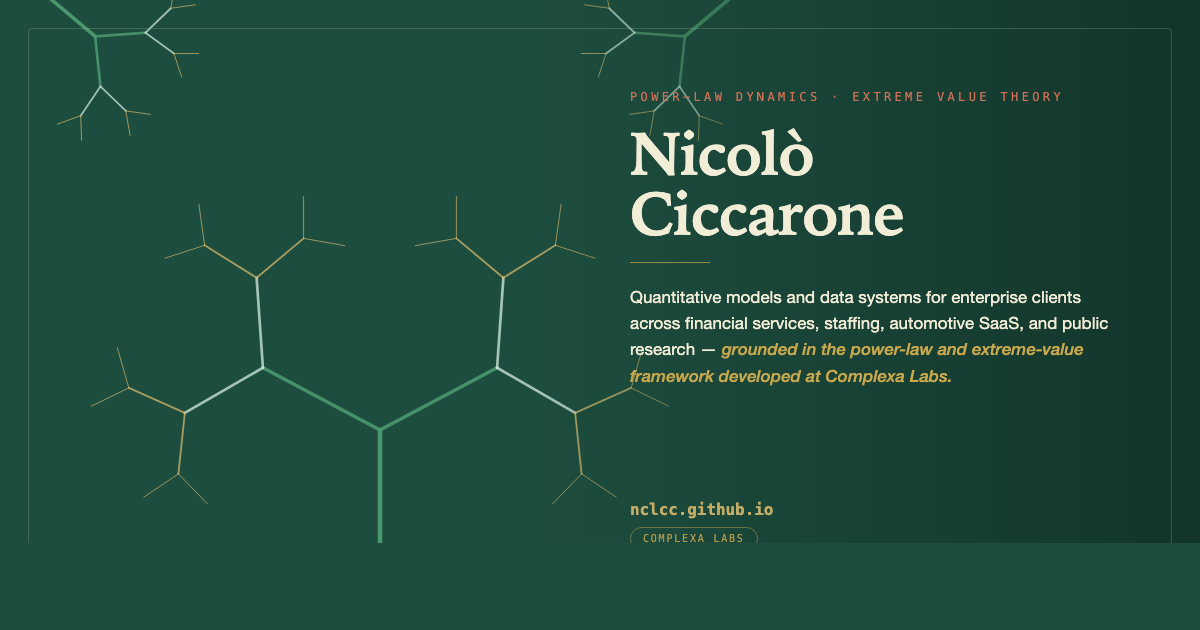
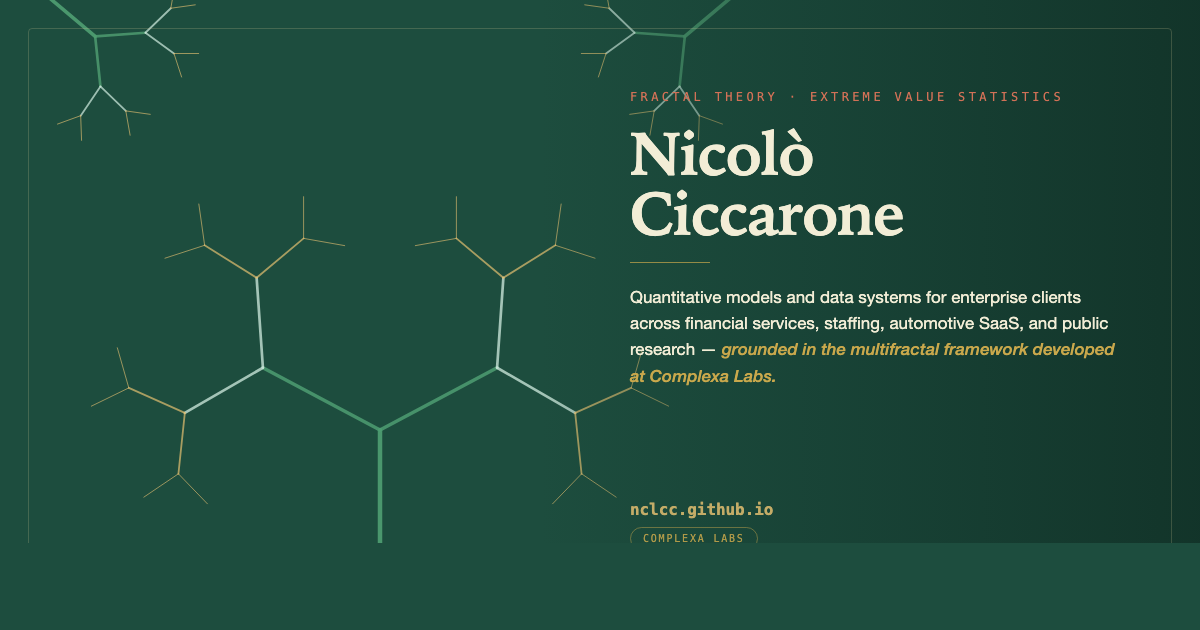
Reposition framing around fractal theory and extreme value statistics

Changed region(s): [[0.5242, 0.5429, 0.925, 0.6032], [0.5858, 0.1508, 0.8942, 0.181], [0.5242, 0.1508, 0.555, 0.181]]

diff --git a/app/page.tsx b/app/page.tsx
@@ -79,9 +79,12 @@ export default function Home() {
         </h1>
         <p className="mt-5 text-lg leading-relaxed" style={{ color: "var(--bk-ink-mid)" }}>
           I build quantitative models and data systems for enterprise clients across financial services,
-          staffing, and public research. My work sits at the intersection of causal inference, statistical
-          modelling, and production data engineering — translating econometric rigour into systems that survive
-          deployment. Most of my recent research runs through{" "}
+          staffing, and public research. My work is rooted in <strong style={{ color: "var(--bk-green-dk)" }}>fractal
+          theory</strong> and <strong style={{ color: "var(--bk-green-dk)" }}>extreme value theory</strong> — the
+          mathematics of self-similarity across scales, heavy tails, and the rare events that disproportionately drive
+          outcomes in complex systems. Most quantitative tooling is built for the convenient case: stationarity,
+          finite variance, independent shocks. The models I build take the inconvenient case seriously instead — and
+          the systems they live inside survive deployment because of it. Most of my recent research runs through{" "}
           <a
             href="https://www.linkedin.com/company/complexalabs/"
             target="_blank"
@@ -91,7 +94,7 @@ export default function Home() {
           >
             Complexa Labs
           </a>
-          , where I develop the power-law causal framework that underpins my client work.
+          , where I develop the multifractal framework that underpins my client work.
         </p>
 
         <div className="mt-7 flex flex-wrap gap-3">

diff --git a/cv-source/og-card.html b/cv-source/og-card.html
@@ -121,13 +121,13 @@
 
 <div class="panel">
   <div>
-    <div class="eyebrow">Power-law dynamics · Extreme value theory</div>
+    <div class="eyebrow">Fractal theory · Extreme value statistics</div>
     <div class="name">Nicolò<br>Ciccarone</div>
     <div class="rule"></div>
     <div class="tagline">
       Quantitative models and data systems for enterprise clients across financial services,
-      staffing, automotive SaaS, and public research — <em>grounded in the power-law and
-      extreme-value framework developed at Complexa Labs.</em>
+      staffing, automotive SaaS, and public research — <em>grounded in the multifractal
+      framework developed at Complexa Labs.</em>
     </div>
   </div>
   <div class="footer">
